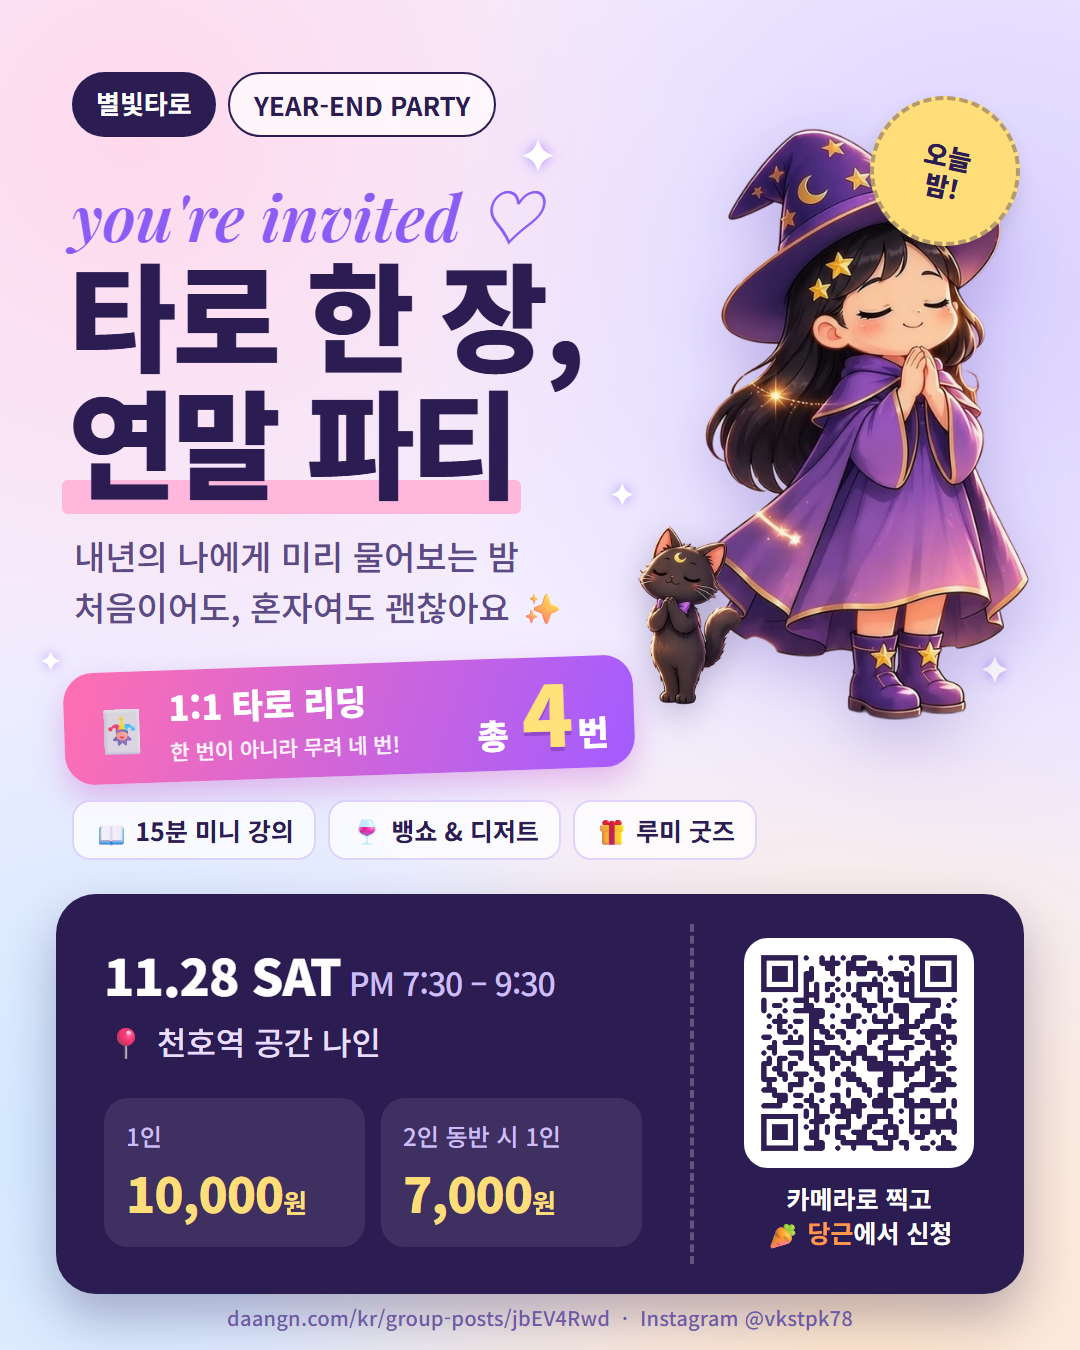
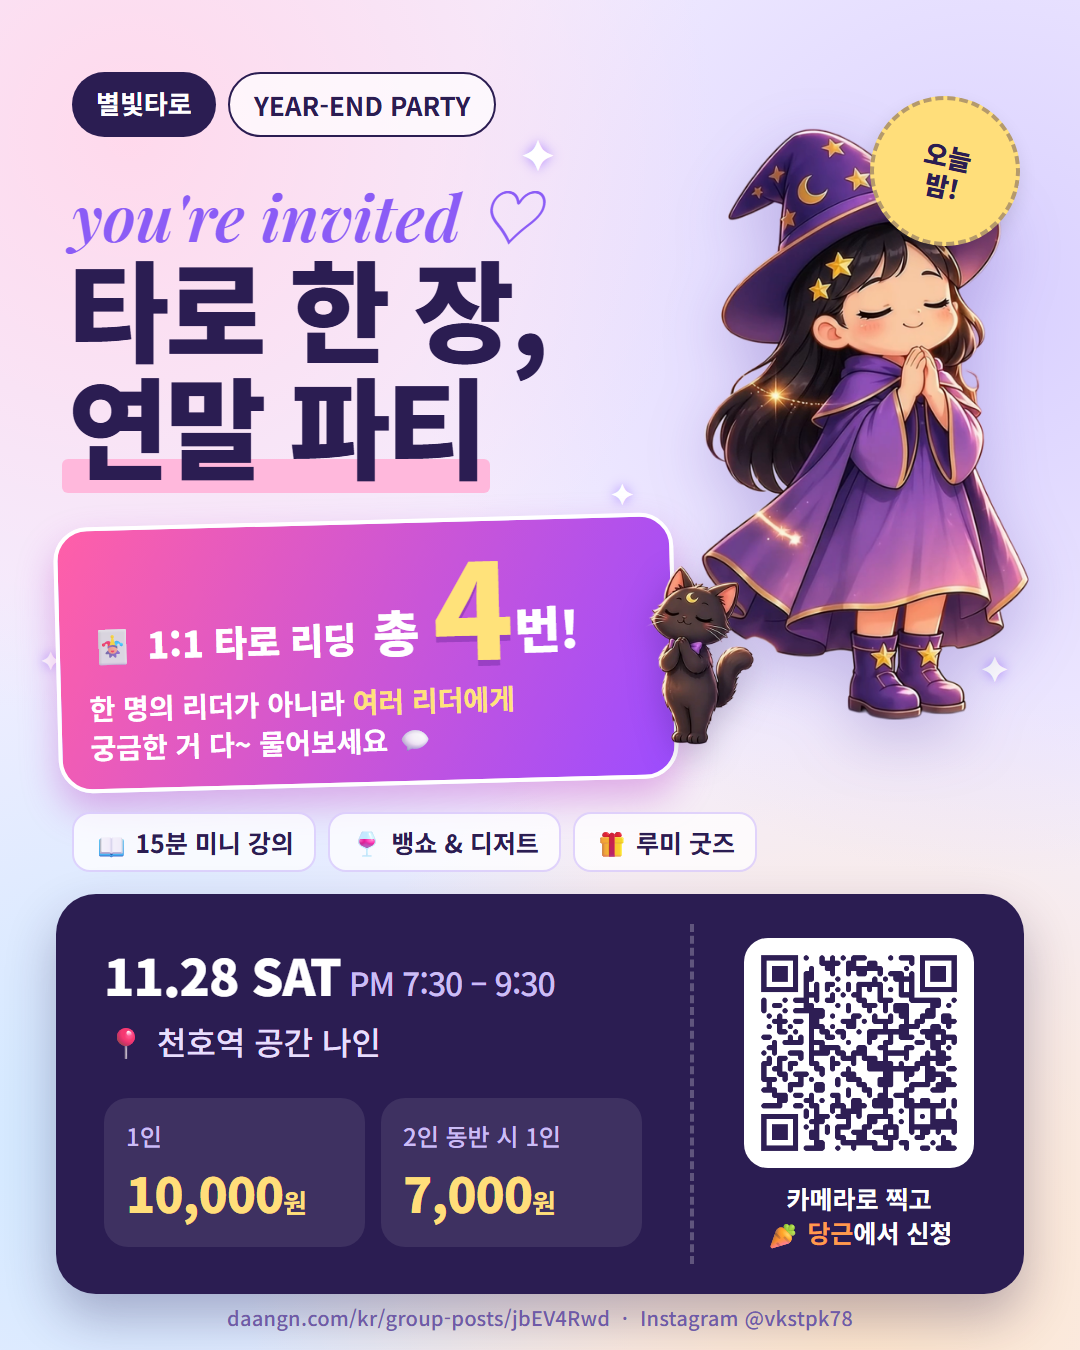
Invite: big centered '1:1 reading x4' block, Instagram link

Changed region(s): [[0.0306, 0.1867, 0.7028, 0.6533]]

diff --git a/outputs/online-invitation/index.html b/outputs/online-invitation/index.html
@@ -45,7 +45,7 @@
   .chip.line { background: rgba(255, 255, 255, .7); color: #2b1d52; border: 2px solid #2b1d52; }
   .script { position: absolute; left: 72px; top: 168px; font-family: "Playfair Display", serif; font-style: italic; font-size: 64px; color: #8b5cf6; }
   h1 {
-    position: absolute; left: 68px; top: 248px; font-size: 118px; font-weight: 900; line-height: 1.08; letter-spacing: -4px;
+    position: absolute; left: 68px; top: 248px; font-size: 110px; font-weight: 900; line-height: 1.06; letter-spacing: -4px;
   }
   h1 .hl { position: relative; z-index: 0; }
   h1 .hl::after { content: ""; position: absolute; left: -6px; right: -6px; bottom: 10px; height: 34px; background: #ffb8dc; z-index: -1; border-radius: 6px; }
@@ -53,7 +53,7 @@
 
   /* 루미 */
   .lumi { position: absolute; right: 40px; top: 120px; height: 600px; filter: drop-shadow(0 20px 30px rgba(80, 50, 160, .25)); }
-  .kkami { position: absolute; right: 330px; top: 520px; height: 190px; filter: drop-shadow(0 10px 16px rgba(40, 20, 80, .25)); }
+  .kkami { position: absolute; z-index: 2; right: 318px; top: 560px; height: 190px; filter: drop-shadow(0 10px 16px rgba(40, 20, 80, .25)); }
   .sticker {
     position: absolute; right: 60px; top: 96px; width: 150px; height: 150px; border-radius: 50%;
     background: #ffde7a; display: grid; place-items: center; text-align: center; transform: rotate(12deg);
@@ -63,18 +63,17 @@
 
   /* 리딩 4번 강조 */
   .hero-pill {
-    position: absolute; left: 64px; top: 664px; width: 570px; height: 112px; display: flex; align-items: center; gap: 16px;
-    padding: 0 26px; border-radius: 30px; color: #fff;
-    background: linear-gradient(110deg, #ff6fb1, #a35cff); box-shadow: 0 14px 30px rgba(200, 80, 200, .35);
-    transform: rotate(-2deg);
+    position: absolute; left: 56px; top: 520px; width: 620px; padding: 6px 28px 22px; border-radius: 34px; color: #fff;
+    background: linear-gradient(115deg, #ff5fa8, #9d4dff); box-shadow: 0 18px 36px rgba(190, 70, 200, .4);
+    transform: rotate(-1.5deg); border: 4px solid #fff;
   }
-  .hero-pill .ico { font-size: 46px; }
-  .hero-pill .txt { flex: 1; font-size: 34px; font-weight: 900; line-height: 1.15; }
-  .hero-pill .txt small { font-size: 21px; font-weight: 500; opacity: .92; }
-  .hero-pill .big { font-size: 34px; font-weight: 900; white-space: nowrap; }
-  .hero-pill .big b { font-size: 84px; line-height: 1; color: #ffe27a; text-shadow: 0 4px 0 rgba(90, 30, 140, .35); margin: 0 4px; }
+  .hero-pill .n { font-size: 50px; font-weight: 900; letter-spacing: -1px; line-height: 1.15; white-space: nowrap; }
+  .hero-pill .n .k { font-size: 36px; letter-spacing: 0; margin-right: 4px; }
+  .hero-pill .n b { font-size: 132px; color: #ffe27a; text-shadow: 0 6px 0 rgba(90, 30, 140, .35); vertical-align: -10px; margin: 0 2px; }
+  .hero-pill .d { margin-top: 0; font-size: 28px; font-weight: 700; line-height: 1.4; }
+  .hero-pill .d em { font-style: normal; color: #ffe27a; }
   /* 프로그램 칩 */
-  .menu { position: absolute; left: 72px; top: 800px; display: flex; gap: 12px; }
+  .menu { position: absolute; left: 72px; top: 812px; display: flex; gap: 12px; }
   .menu span {
     padding: 10px 20px; border-radius: 18px; font-size: 25px; font-weight: 700;
     background: rgba(255, 255, 255, .75); border: 2px solid rgba(139, 92, 246, .25);
@@ -115,16 +114,14 @@
   <div class="tag"><span class="chip">별빛타로</span><span class="chip line">YEAR-END PARTY</span></div>
   <p class="script">you're invited ♡</p>
   <h1>타로 한 장,<br><span class="hl">연말 파티</span></h1>
-  <p class="sub">내년의 나에게 미리 물어보는 밤<br>처음이어도, 혼자여도 괜찮아요 ✨</p>
-
+  
   <img class="lumi" src="assets/lumi.png" alt="루미">
   <img class="kkami" src="assets/kkami.png" alt="까미">
   <div class="sticker">오늘<br>밤!</div>
 
   <div class="hero-pill">
-    <span class="ico">🃏</span>
-    <span class="txt">1:1 타로 리딩<br><small>한 번이 아니라 무려 네 번!</small></span>
-    <span class="big">총 <b>4</b>번</span>
+    <p class="n"><span class="k">🃏 1:1 타로 리딩</span> 총 <b>4</b>번!</p>
+    <p class="d">한 명의 리더가 아니라 <em>여러 리더에게</em><br>궁금한 거 다~ 물어보세요 💬</p>
   </div>
   <div class="menu">
     <span>📖 15분 미니 강의</span><span>🍷 뱅쇼 &amp; 디저트</span><span>🎁 루미 굿즈</span>

diff --git a/outputs/online-invitation/card.html b/outputs/online-invitation/card.html
@@ -30,7 +30,7 @@
   .chip.line { background: rgba(255, 255, 255, .7); color: #2b1d52; border: 2px solid #2b1d52; }
   .script { position: absolute; left: 72px; top: 168px; font-family: "Playfair Display", serif; font-style: italic; font-size: 64px; color: #8b5cf6; }
   h1 {
-    position: absolute; left: 68px; top: 248px; font-size: 118px; font-weight: 900; line-height: 1.08; letter-spacing: -4px;
+    position: absolute; left: 68px; top: 248px; font-size: 110px; font-weight: 900; line-height: 1.06; letter-spacing: -4px;
   }
   h1 .hl { position: relative; z-index: 0; }
   h1 .hl::after { content: ""; position: absolute; left: -6px; right: -6px; bottom: 10px; height: 34px; background: #ffb8dc; z-index: -1; border-radius: 6px; }
@@ -38,7 +38,7 @@
 
   /* 루미 */
   .lumi { position: absolute; right: 40px; top: 120px; height: 600px; filter: drop-shadow(0 20px 30px rgba(80, 50, 160, .25)); }
-  .kkami { position: absolute; right: 330px; top: 520px; height: 190px; filter: drop-shadow(0 10px 16px rgba(40, 20, 80, .25)); }
+  .kkami { position: absolute; z-index: 2; right: 318px; top: 560px; height: 190px; filter: drop-shadow(0 10px 16px rgba(40, 20, 80, .25)); }
   .sticker {
     position: absolute; right: 60px; top: 96px; width: 150px; height: 150px; border-radius: 50%;
     background: #ffde7a; display: grid; place-items: center; text-align: center; transform: rotate(12deg);
@@ -48,18 +48,17 @@
 
   /* 리딩 4번 강조 */
   .hero-pill {
-    position: absolute; left: 64px; top: 664px; width: 570px; height: 112px; display: flex; align-items: center; gap: 16px;
-    padding: 0 26px; border-radius: 30px; color: #fff;
-    background: linear-gradient(110deg, #ff6fb1, #a35cff); box-shadow: 0 14px 30px rgba(200, 80, 200, .35);
-    transform: rotate(-2deg);
+    position: absolute; left: 56px; top: 520px; width: 620px; padding: 6px 28px 22px; border-radius: 34px; color: #fff;
+    background: linear-gradient(115deg, #ff5fa8, #9d4dff); box-shadow: 0 18px 36px rgba(190, 70, 200, .4);
+    transform: rotate(-1.5deg); border: 4px solid #fff;
   }
-  .hero-pill .ico { font-size: 46px; }
-  .hero-pill .txt { flex: 1; font-size: 34px; font-weight: 900; line-height: 1.15; }
-  .hero-pill .txt small { font-size: 21px; font-weight: 500; opacity: .92; }
-  .hero-pill .big { font-size: 34px; font-weight: 900; white-space: nowrap; }
-  .hero-pill .big b { font-size: 84px; line-height: 1; color: #ffe27a; text-shadow: 0 4px 0 rgba(90, 30, 140, .35); margin: 0 4px; }
+  .hero-pill .n { font-size: 50px; font-weight: 900; letter-spacing: -1px; line-height: 1.15; white-space: nowrap; }
+  .hero-pill .n .k { font-size: 36px; letter-spacing: 0; margin-right: 4px; }
+  .hero-pill .n b { font-size: 132px; color: #ffe27a; text-shadow: 0 6px 0 rgba(90, 30, 140, .35); vertical-align: -10px; margin: 0 2px; }
+  .hero-pill .d { margin-top: 0; font-size: 28px; font-weight: 700; line-height: 1.4; }
+  .hero-pill .d em { font-style: normal; color: #ffe27a; }
   /* 프로그램 칩 */
-  .menu { position: absolute; left: 72px; top: 800px; display: flex; gap: 12px; }
+  .menu { position: absolute; left: 72px; top: 812px; display: flex; gap: 12px; }
   .menu span {
     padding: 10px 20px; border-radius: 18px; font-size: 25px; font-weight: 700;
     background: rgba(255, 255, 255, .75); border: 2px solid rgba(139, 92, 246, .25);
@@ -100,16 +99,14 @@
   <div class="tag"><span class="chip">별빛타로</span><span class="chip line">YEAR-END PARTY</span></div>
   <p class="script">you're invited ♡</p>
   <h1>타로 한 장,<br><span class="hl">연말 파티</span></h1>
-  <p class="sub">내년의 나에게 미리 물어보는 밤<br>처음이어도, 혼자여도 괜찮아요 ✨</p>
-
+  
   <img class="lumi" src="assets/lumi.png" alt="루미">
   <img class="kkami" src="assets/kkami.png" alt="까미">
   <div class="sticker">오늘<br>밤!</div>
 
   <div class="hero-pill">
-    <span class="ico">🃏</span>
-    <span class="txt">1:1 타로 리딩<br><small>한 번이 아니라 무려 네 번!</small></span>
-    <span class="big">총 <b>4</b>번</span>
+    <p class="n"><span class="k">🃏 1:1 타로 리딩</span> 총 <b>4</b>번!</p>
+    <p class="d">한 명의 리더가 아니라 <em>여러 리더에게</em><br>궁금한 거 다~ 물어보세요 💬</p>
   </div>
   <div class="menu">
     <span>📖 15분 미니 강의</span><span>🍷 뱅쇼 &amp; 디저트</span><span>🎁 루미 굿즈</span>
